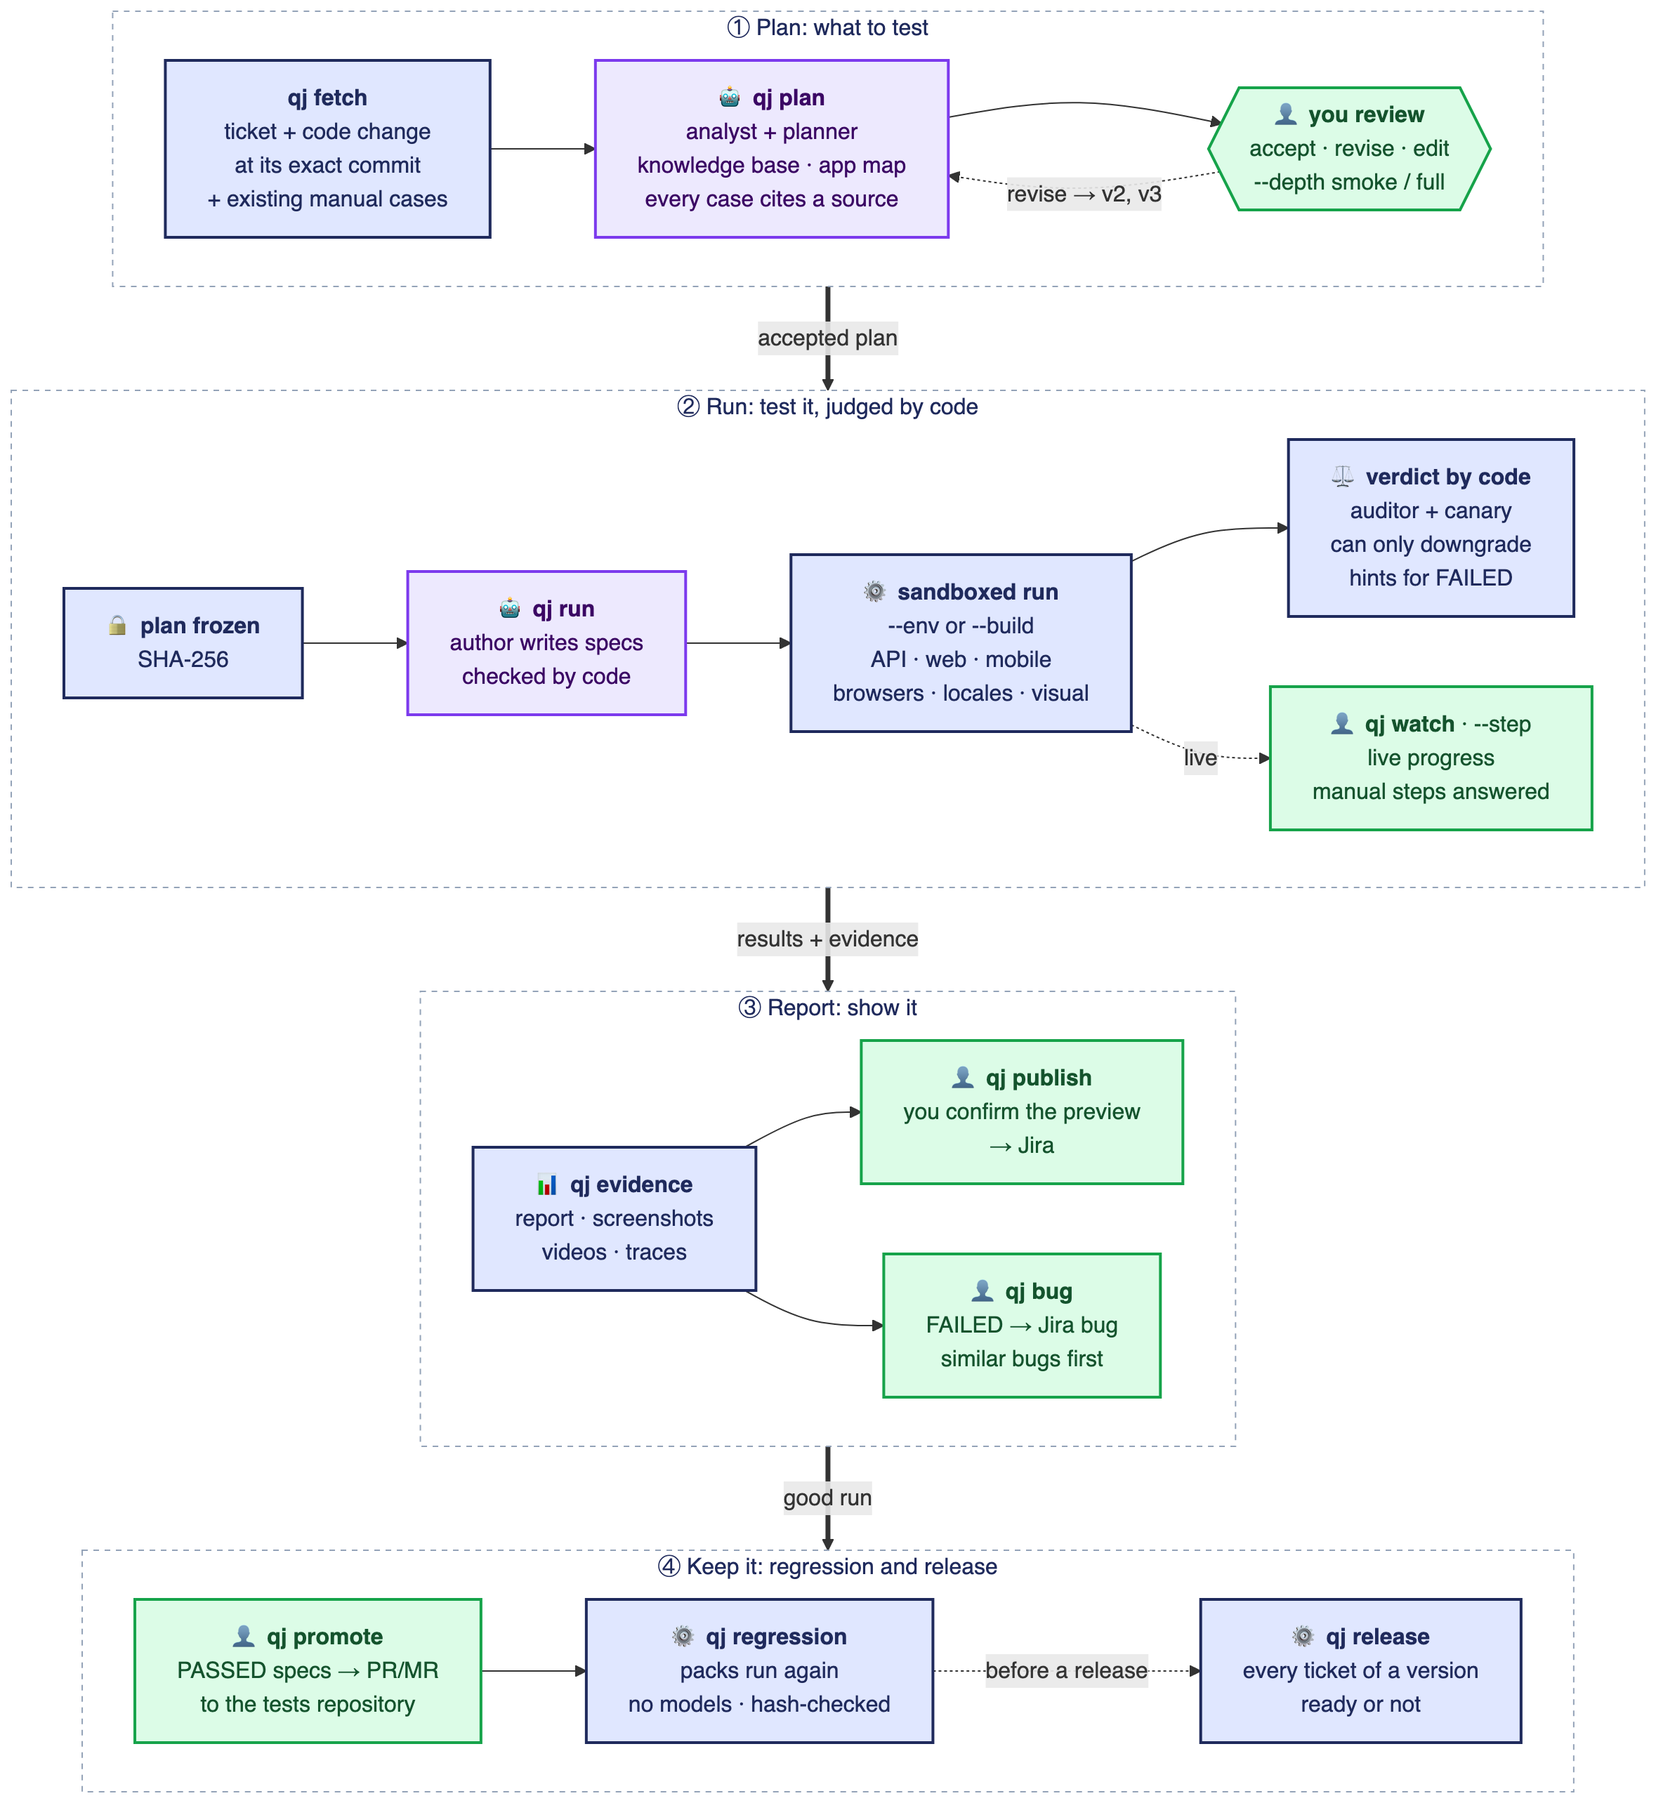
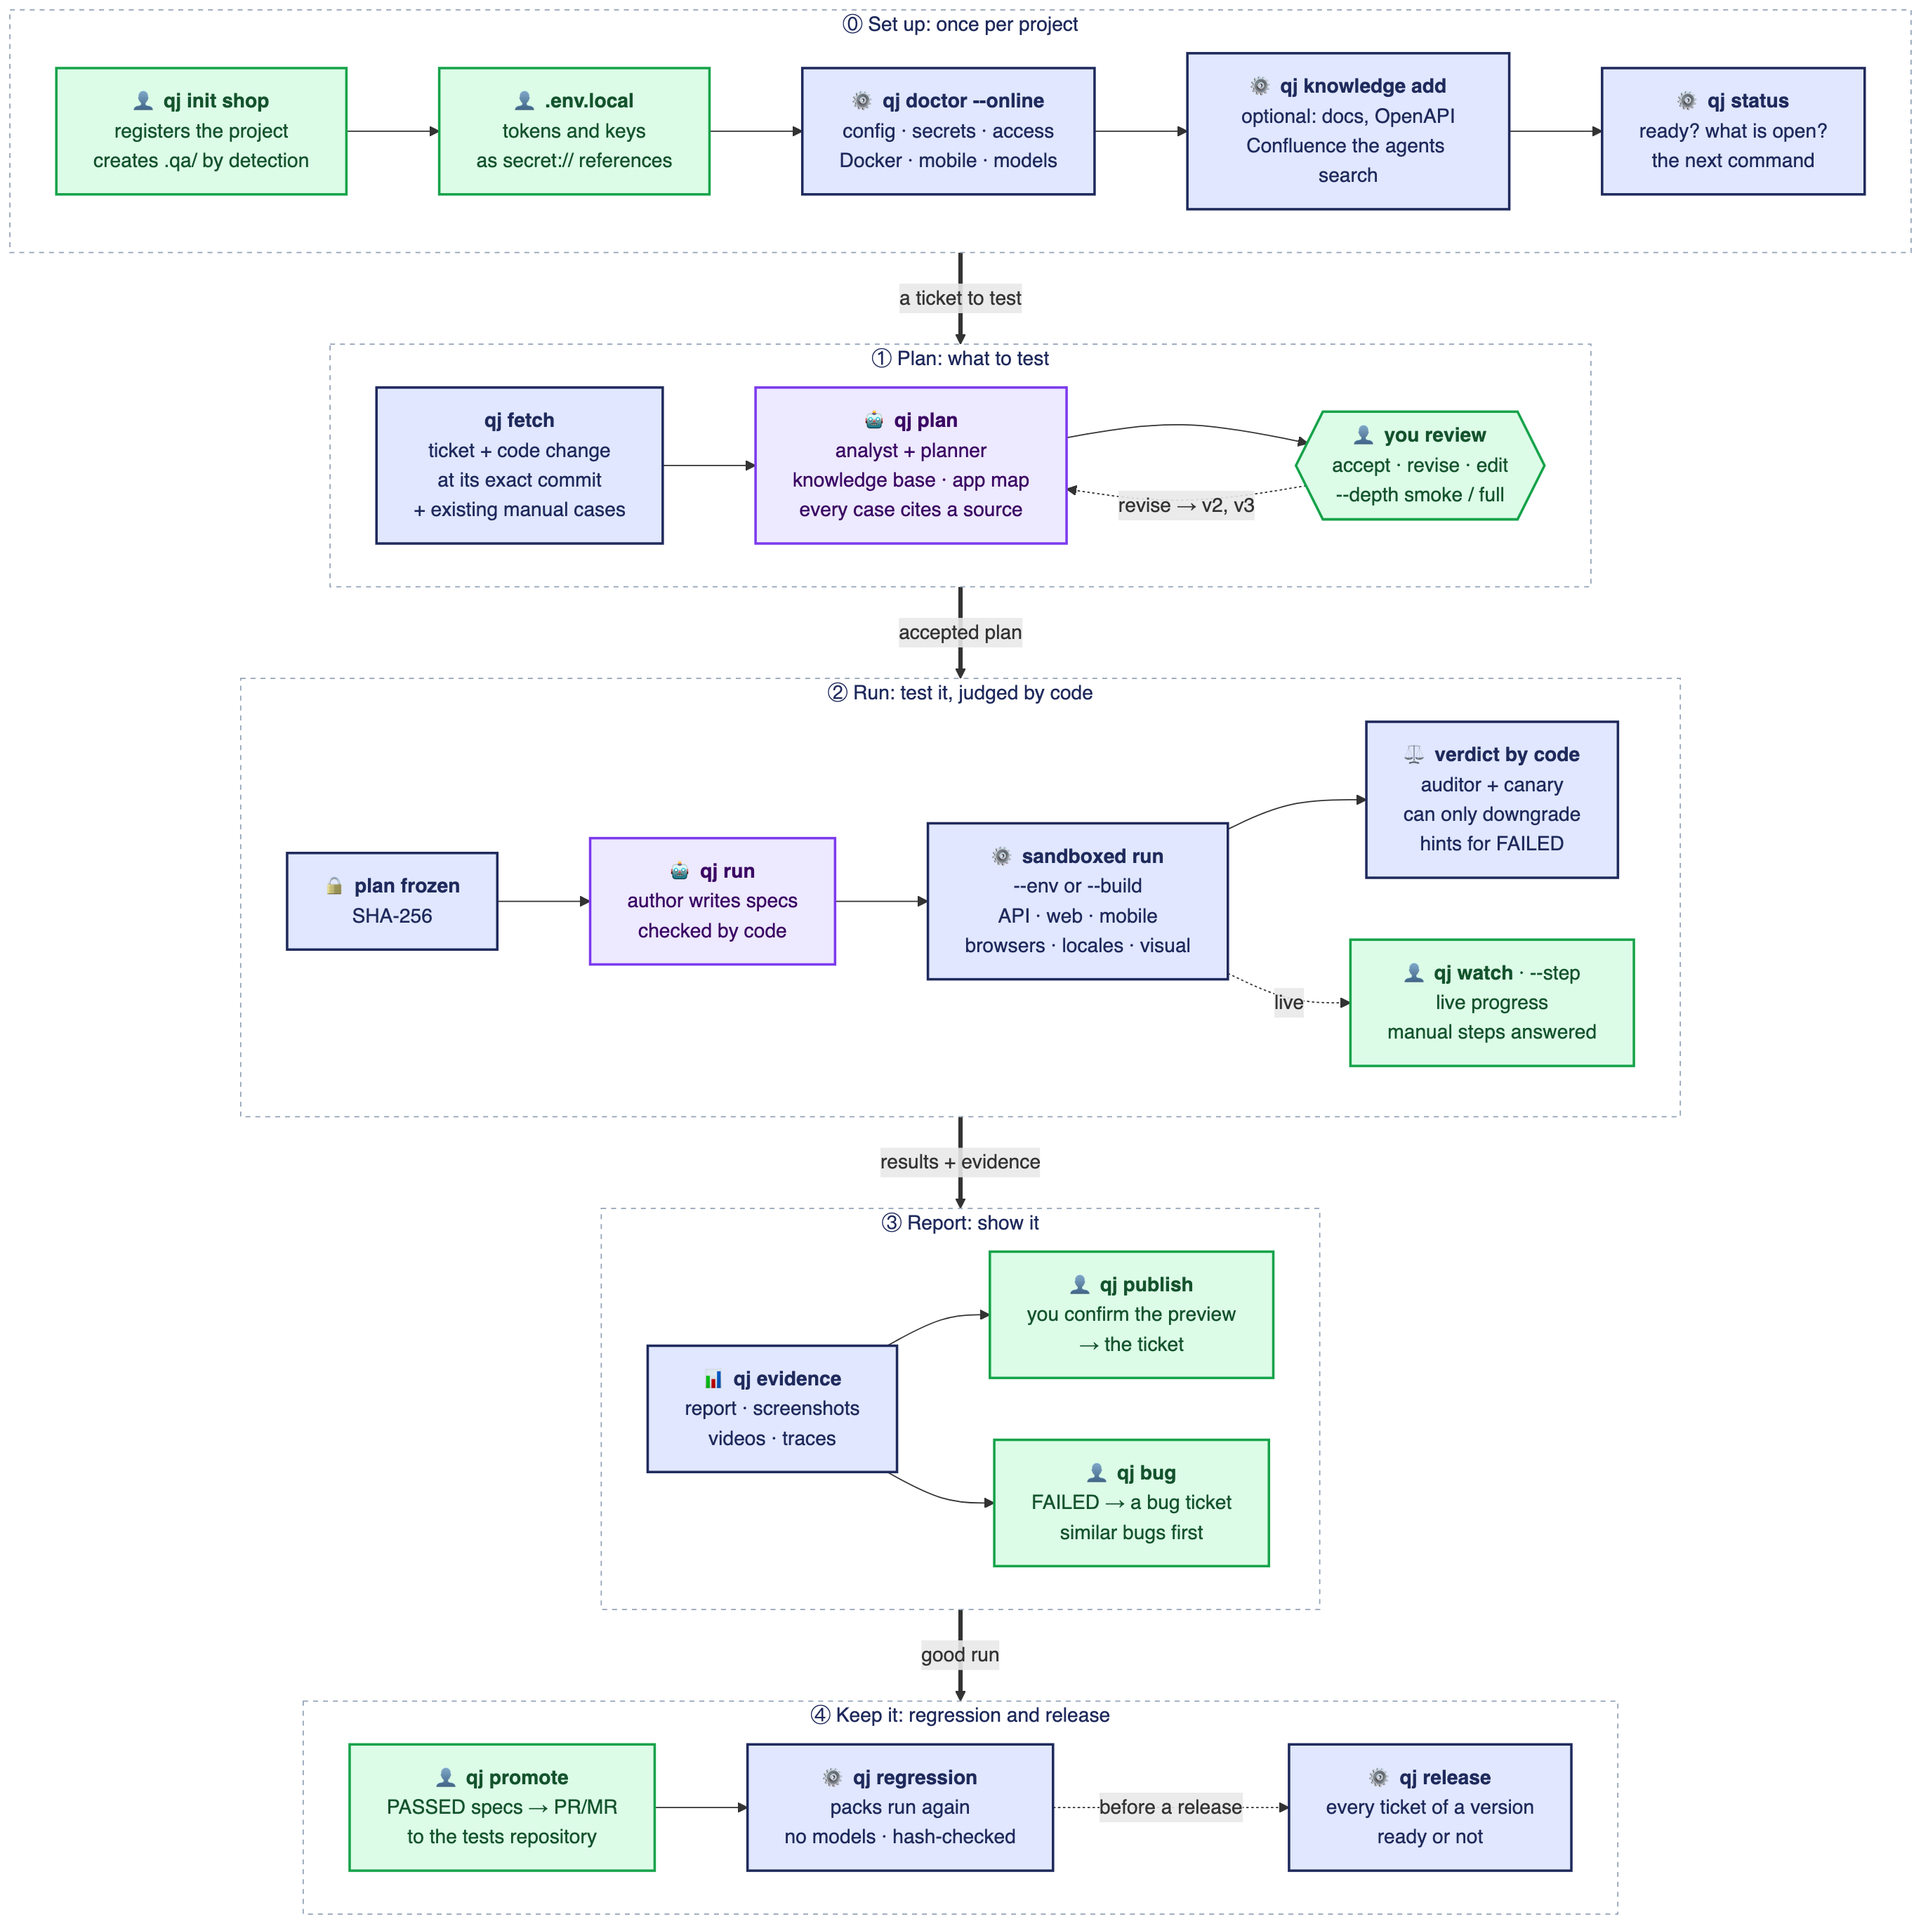
docs: setup stage (init, secrets, doctor, knowledge, status) in the flow diagram
Refs: REQ-NFR-03

diff --git a/README.md b/README.md
@@ -74,28 +74,29 @@ checks (auditor, canary) can only make a result worse, never better.
 ## 1. How it works
 
 <p align="center">
-  <img src="docs/assets/qajitsu-flow.png" alt="QAJitsu flow: plan (fetch, plan, review), run (frozen plan, author, sandboxed run, verdict by code, live watch), report (evidence, publish, bug), keep (promote, regression, release)" width="900">
+  <img src="docs/assets/qajitsu-flow.png" alt="QAJitsu flow: set up (init, secrets, doctor, knowledge, status), plan (fetch, plan, review), run (frozen plan, author, sandboxed run, verdict by code, live watch), report (evidence, publish, bug), keep (promote, regression, release)" width="900">
 </p>
 
 <sub>Diagram source: <a href="docs/assets/qajitsu-flow.mmd">docs/assets/qajitsu-flow.mmd</a>, re-render with <code>node scripts/render-diagrams.mjs</code>.</sub>
 
 <p align="center"><sub>🟩 you decide &nbsp;·&nbsp; 🟪 AI agents propose &nbsp;·&nbsp; 🟦 deterministic code executes and judges</sub></p>
 
-| Step                  | Who                         | What it produces                                      | Where it lives (in the run folder)    |
-| --------------------- | --------------------------- | ----------------------------------------------------- | ------------------------------------- |
-| `qj fetch`            | code                        | the ticket, the change, worktrees, manual test cases  | `ticket/`, `repos/`, `imported/`      |
-| `qj plan`             | AI agents                   | analysis and plan versions with sources               | `analysis.json`, `plan/`, `map/`      |
-| review / `qj approve` | **you**                     | the frozen plan and its SHA-256                       | `plan/plan.approved.yaml`, `run.json` |
-| `qj run` (author)     | AI agent                    | one spec per case, checked by code                    | `specs/`                              |
-| `qj run` (execution)  | code                        | assertions, evidence with hashes                      | `results/`, `evidence/`               |
-| `qj watch`            | you                         | live progress and the latest screenshot per case      | `live/` (preview, not evidence)       |
-| `qj run` (verdict)    | code                        | statuses, gates, auditor and canary records, reports  | `checks/`, `report/`                  |
-| `qj evidence`         | you                         | the report, failed steps, screenshots, videos, traces | `report/report.html`                  |
-| `qj publish`          | **you** confirm, code posts | the ticket comment and the evidence zip               | the ticket                            |
-| `qj bug`              | **you** confirm, code posts | a bug per FAILED case, written from the run           | ticket system, `run.json`             |
-| `qj promote`          | **you** confirm, code posts | a PR/MR with the PASSED specs and their expectations  | tests repository                      |
-| `qj regression`       | code                        | the promoted packs run again, no models               | `exports/regression/`                 |
-| `qj release`          | code                        | readiness of every ticket of a fix version or sprint  | `exports/releases/`                   |
+| Step                    | Who                         | What it produces                                      | Where it lives (in the run folder)    |
+| ----------------------- | --------------------------- | ----------------------------------------------------- | ------------------------------------- |
+| `qj init` / `qj doctor` | **you** once, code checks   | the project, its `.qa/` folder and a readiness check  | `~/.qajitsu/projects/<slug>/`, `.qa/` |
+| `qj fetch`              | code                        | the ticket, the change, worktrees, manual test cases  | `ticket/`, `repos/`, `imported/`      |
+| `qj plan`               | AI agents                   | analysis and plan versions with sources               | `analysis.json`, `plan/`, `map/`      |
+| review / `qj approve`   | **you**                     | the frozen plan and its SHA-256                       | `plan/plan.approved.yaml`, `run.json` |
+| `qj run` (author)       | AI agent                    | one spec per case, checked by code                    | `specs/`                              |
+| `qj run` (execution)    | code                        | assertions, evidence with hashes                      | `results/`, `evidence/`               |
+| `qj watch`              | you                         | live progress and the latest screenshot per case      | `live/` (preview, not evidence)       |
+| `qj run` (verdict)      | code                        | statuses, gates, auditor and canary records, reports  | `checks/`, `report/`                  |
+| `qj evidence`           | you                         | the report, failed steps, screenshots, videos, traces | `report/report.html`                  |
+| `qj publish`            | **you** confirm, code posts | the ticket comment and the evidence zip               | the ticket                            |
+| `qj bug`                | **you** confirm, code posts | a bug per FAILED case, written from the run           | ticket system, `run.json`             |
+| `qj promote`            | **you** confirm, code posts | a PR/MR with the PASSED specs and their expectations  | tests repository                      |
+| `qj regression`         | code                        | the promoted packs run again, no models               | `exports/regression/`                 |
+| `qj release`            | code                        | readiness of every ticket of a fix version or sprint  | `exports/releases/`                   |
 
 Every ticket gets a **run folder** in its project (`~/.qajitsu/projects/<project>/runs/<TICKET>/<RUN-ID>/`). Each command continues the latest run of the
 ticket unless you pass `--run <id>`. A new `qj fetch` starts a new run.
